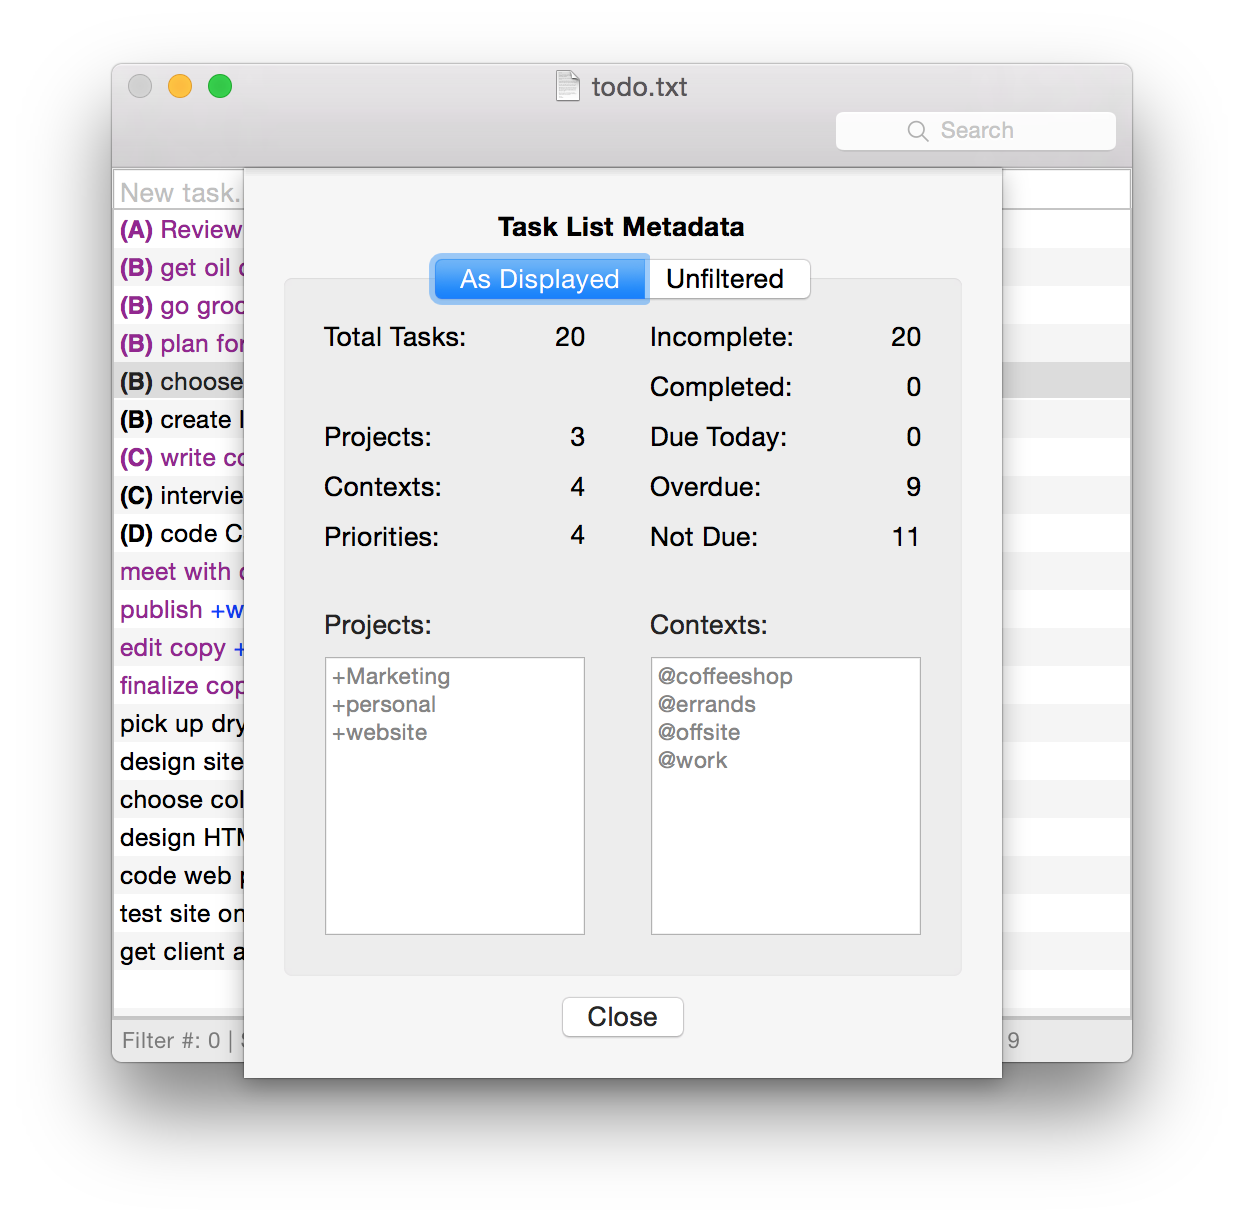
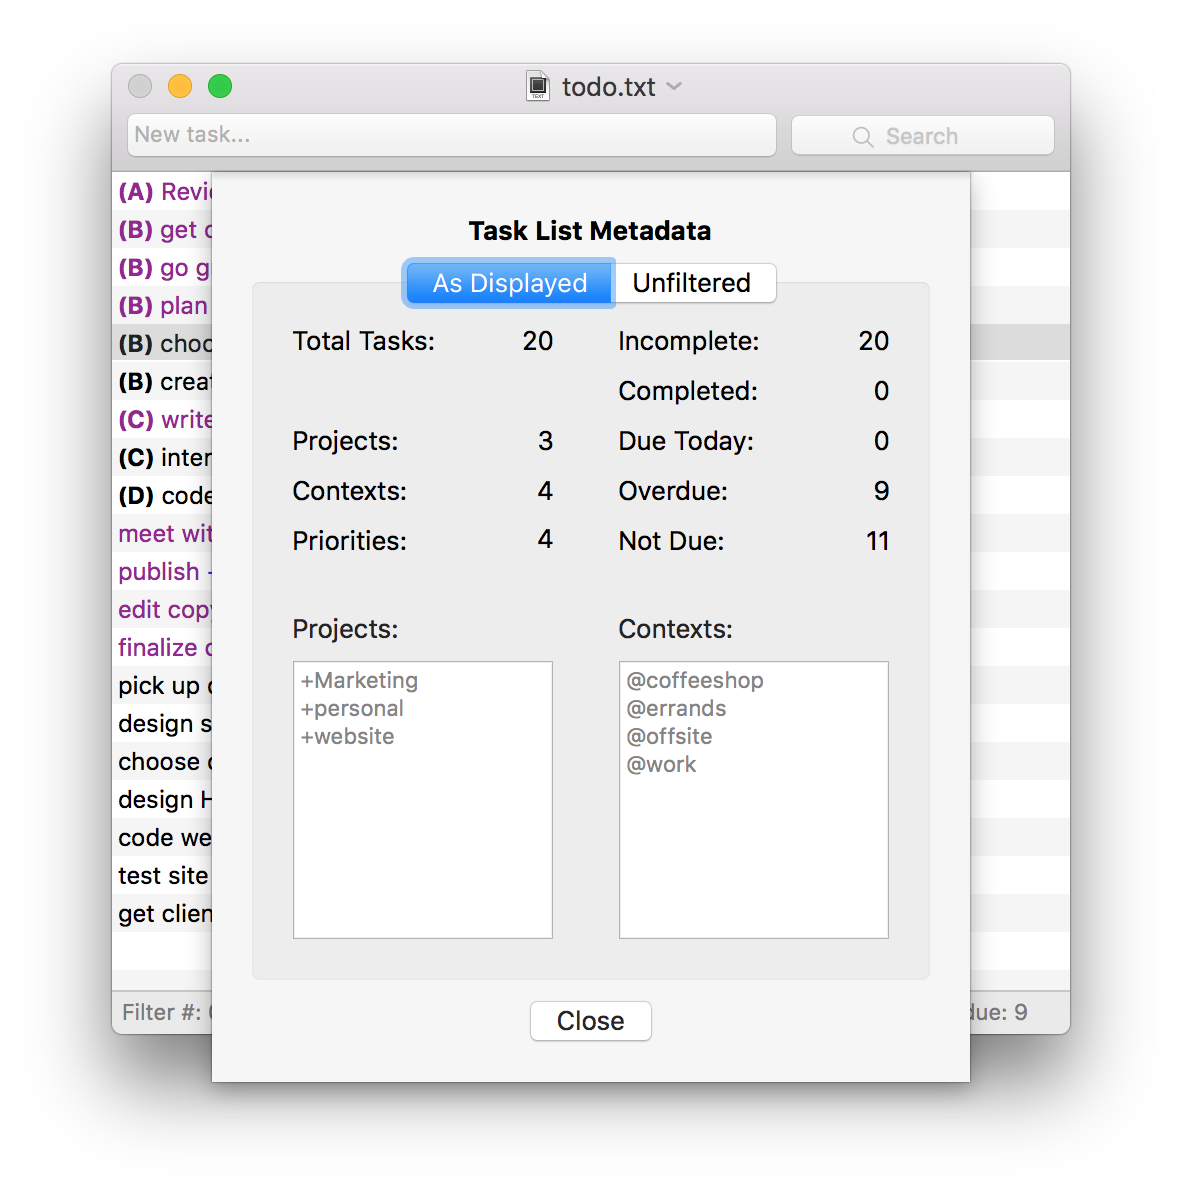
Updated screenshots and release notes in preparation for 2.0.0 release.

diff --git a/release-notes/release-notes-v2.0.0.html b/release-notes/release-notes-v2.0.0.html
@@ -1,0 +1,26 @@
+<!DOCTYPE html>
+<html class="no-js">
+    <head>
+        <meta charset="utf-8">
+        <title>TodoTxtMac | Release Notes - v2.0.0</title>
+        <meta name="description" content="TodoTxtMac release notes">
+        <meta name="viewport" content="width=device-width, initial-scale=1">
+    </head>
+    <body>
+        <h1>Version 2.0.0</h1>
+        <h2>Minimum System Requirements Have Changed</h2>
+        <ul>
+            <li>The minimum supported version of Mac OS X is now 10.11 El Capitan.</li>
+        </ul>
+        <h2>Enhancements</h2>>
+        <ul>
+            <li>Moved the new task text box next to the search box for better separation with the task list.</li>
+            <li>Updated Sparkle framework to fix possible security issue.</li>
+            <li>Removed a lot of deprecated methods for better compatilibility going forward.</li>
+        </ul>
+        <h2>Bug Fixes</h2>
+        <ul>
+            <li>Fixed bug in which tasks could be duplicated if the file was reloaded while a search was being performed.</li>
+        </ul>
+    </body>
+</html>
